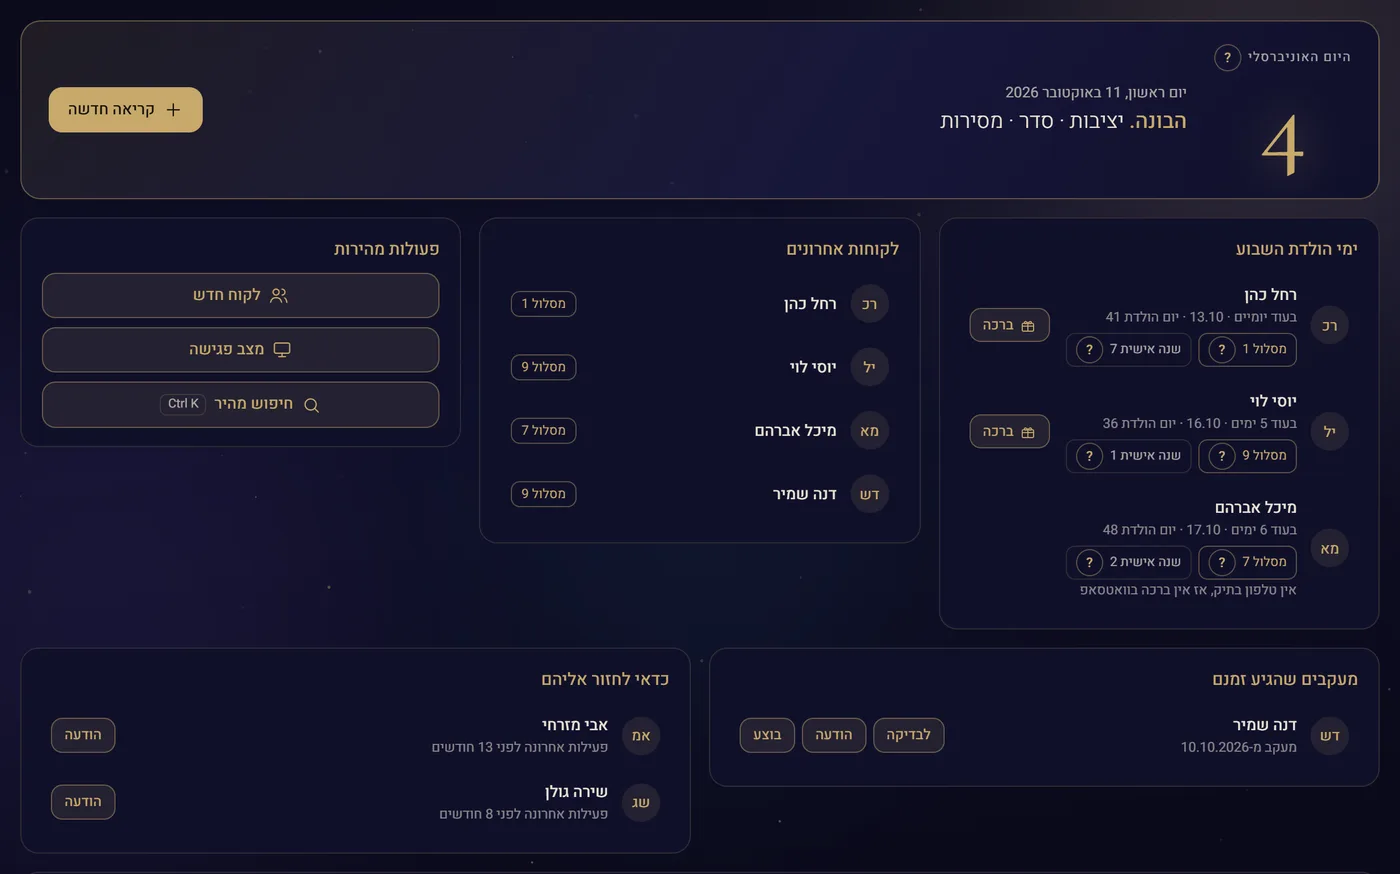
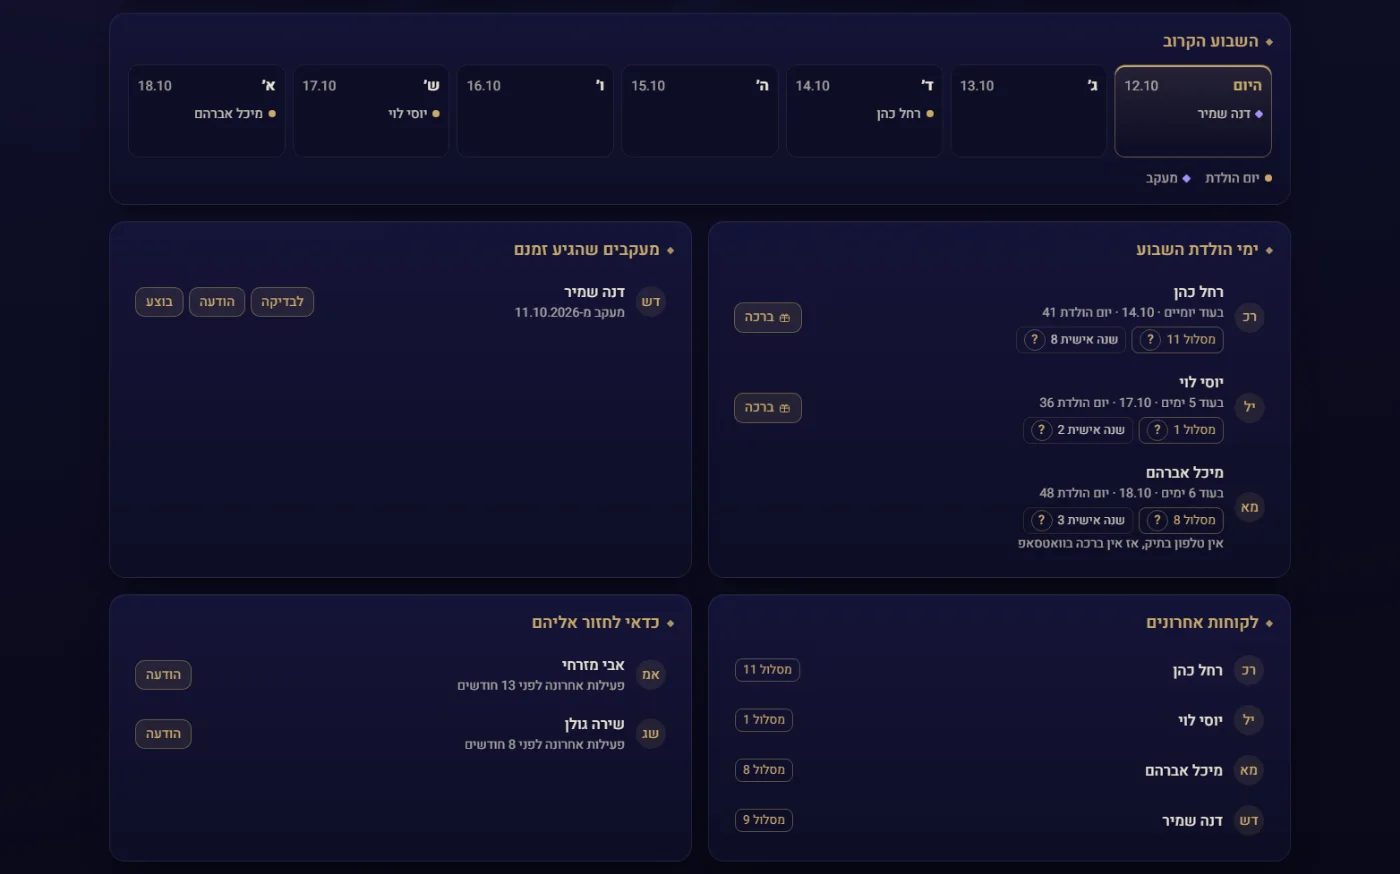
feat(sales): the "היום" picture shows the new home screen
Plan phase 5 (the owner approved the home screen on 2026-10-12): the sales page's picture
beside "הקשר עם הלקוח לא חייב להסתיים בסוף הפגישה" now shows the new week ahead with the
birthdays and follow-ups, the birthdays with their greetings, the follow-ups due, the recent
clients and the ones worth getting back to. Same 1400x874 frame (34 KB), sample clients only,
taken from the lab's Studio; the alt text names the week ahead too.

diff --git a/src/sales/content.js b/src/sales/content.js
@@ -60,7 +60,7 @@ export const SALES = {
         { icon: "sparkles", title: "השנה האישית החדשה", text: "ביולי, כשהשנה האישית מתחלפת, הודעה מוכנה לכל לקוח." },
       ],
       note: "כל הודעה נפתחת בוואטסאפ מוכנה לשליחה, ונשלחת רק כשמחליטים לשלוח.",
-      shotAlt: "מסך \"היום\" בסטודיו: ימי ההולדת של השבוע עם ברכה, מעקבים שהגיע זמנם, ולקוחות שכדאי לחזור אליהם",
+      shotAlt: "מסך \"היום\" בסטודיו: השבוע הקרוב, ימי ההולדת עם ברכה, מעקבים שהגיע זמנם, ולקוחות שכדאי לחזור אליהם",
     },
     worth: {
       title: "כמה פגישות צריך כדי שהמנוי ישתלם?",
@@ -196,7 +196,7 @@ export const SALES = {
         { icon: "sparkles", title: "The new personal year", text: "In July, when the personal year turns, a message ready for each client." },
       ],
       note: "Every message opens in WhatsApp ready to send, and goes only when you choose to send it.",
-      shotAlt: "The Studio's Today screen: this week's birthdays with a greeting, follow-ups due, and clients worth getting back to",
+      shotAlt: "The Studio's Today screen: the week ahead, the birthdays with a greeting, follow-ups due, and clients worth getting back to",
     },
     worth: {
       title: "How many sessions make the subscription worth it?",
